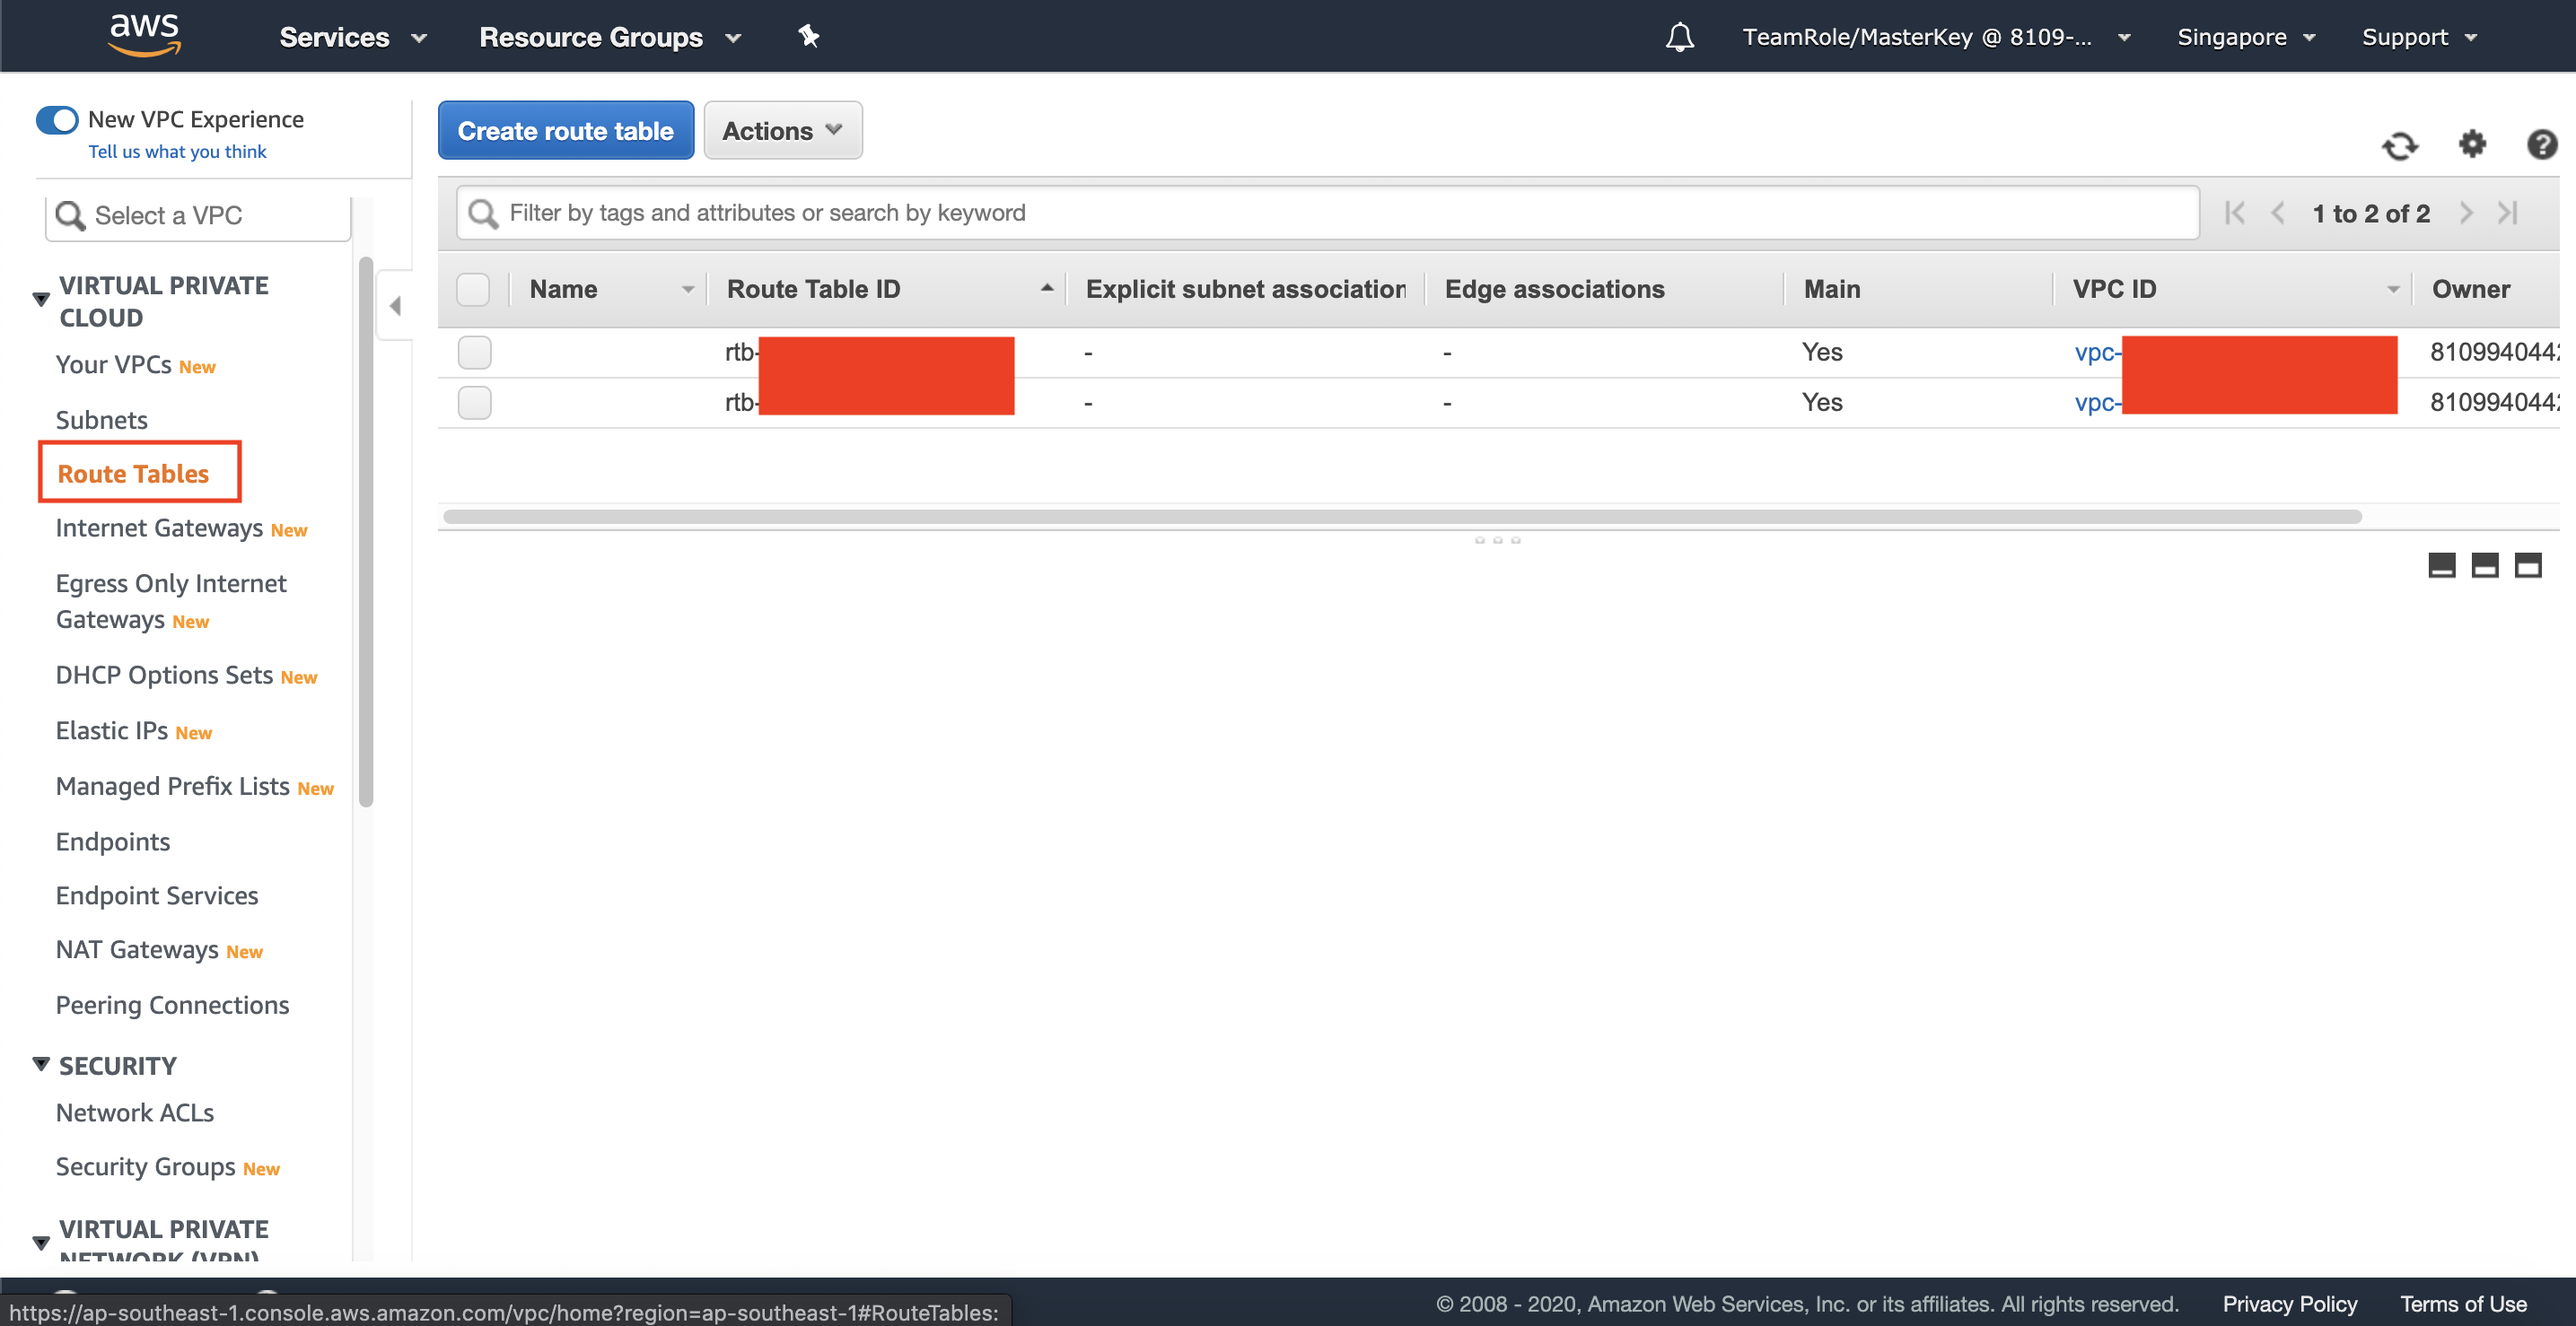
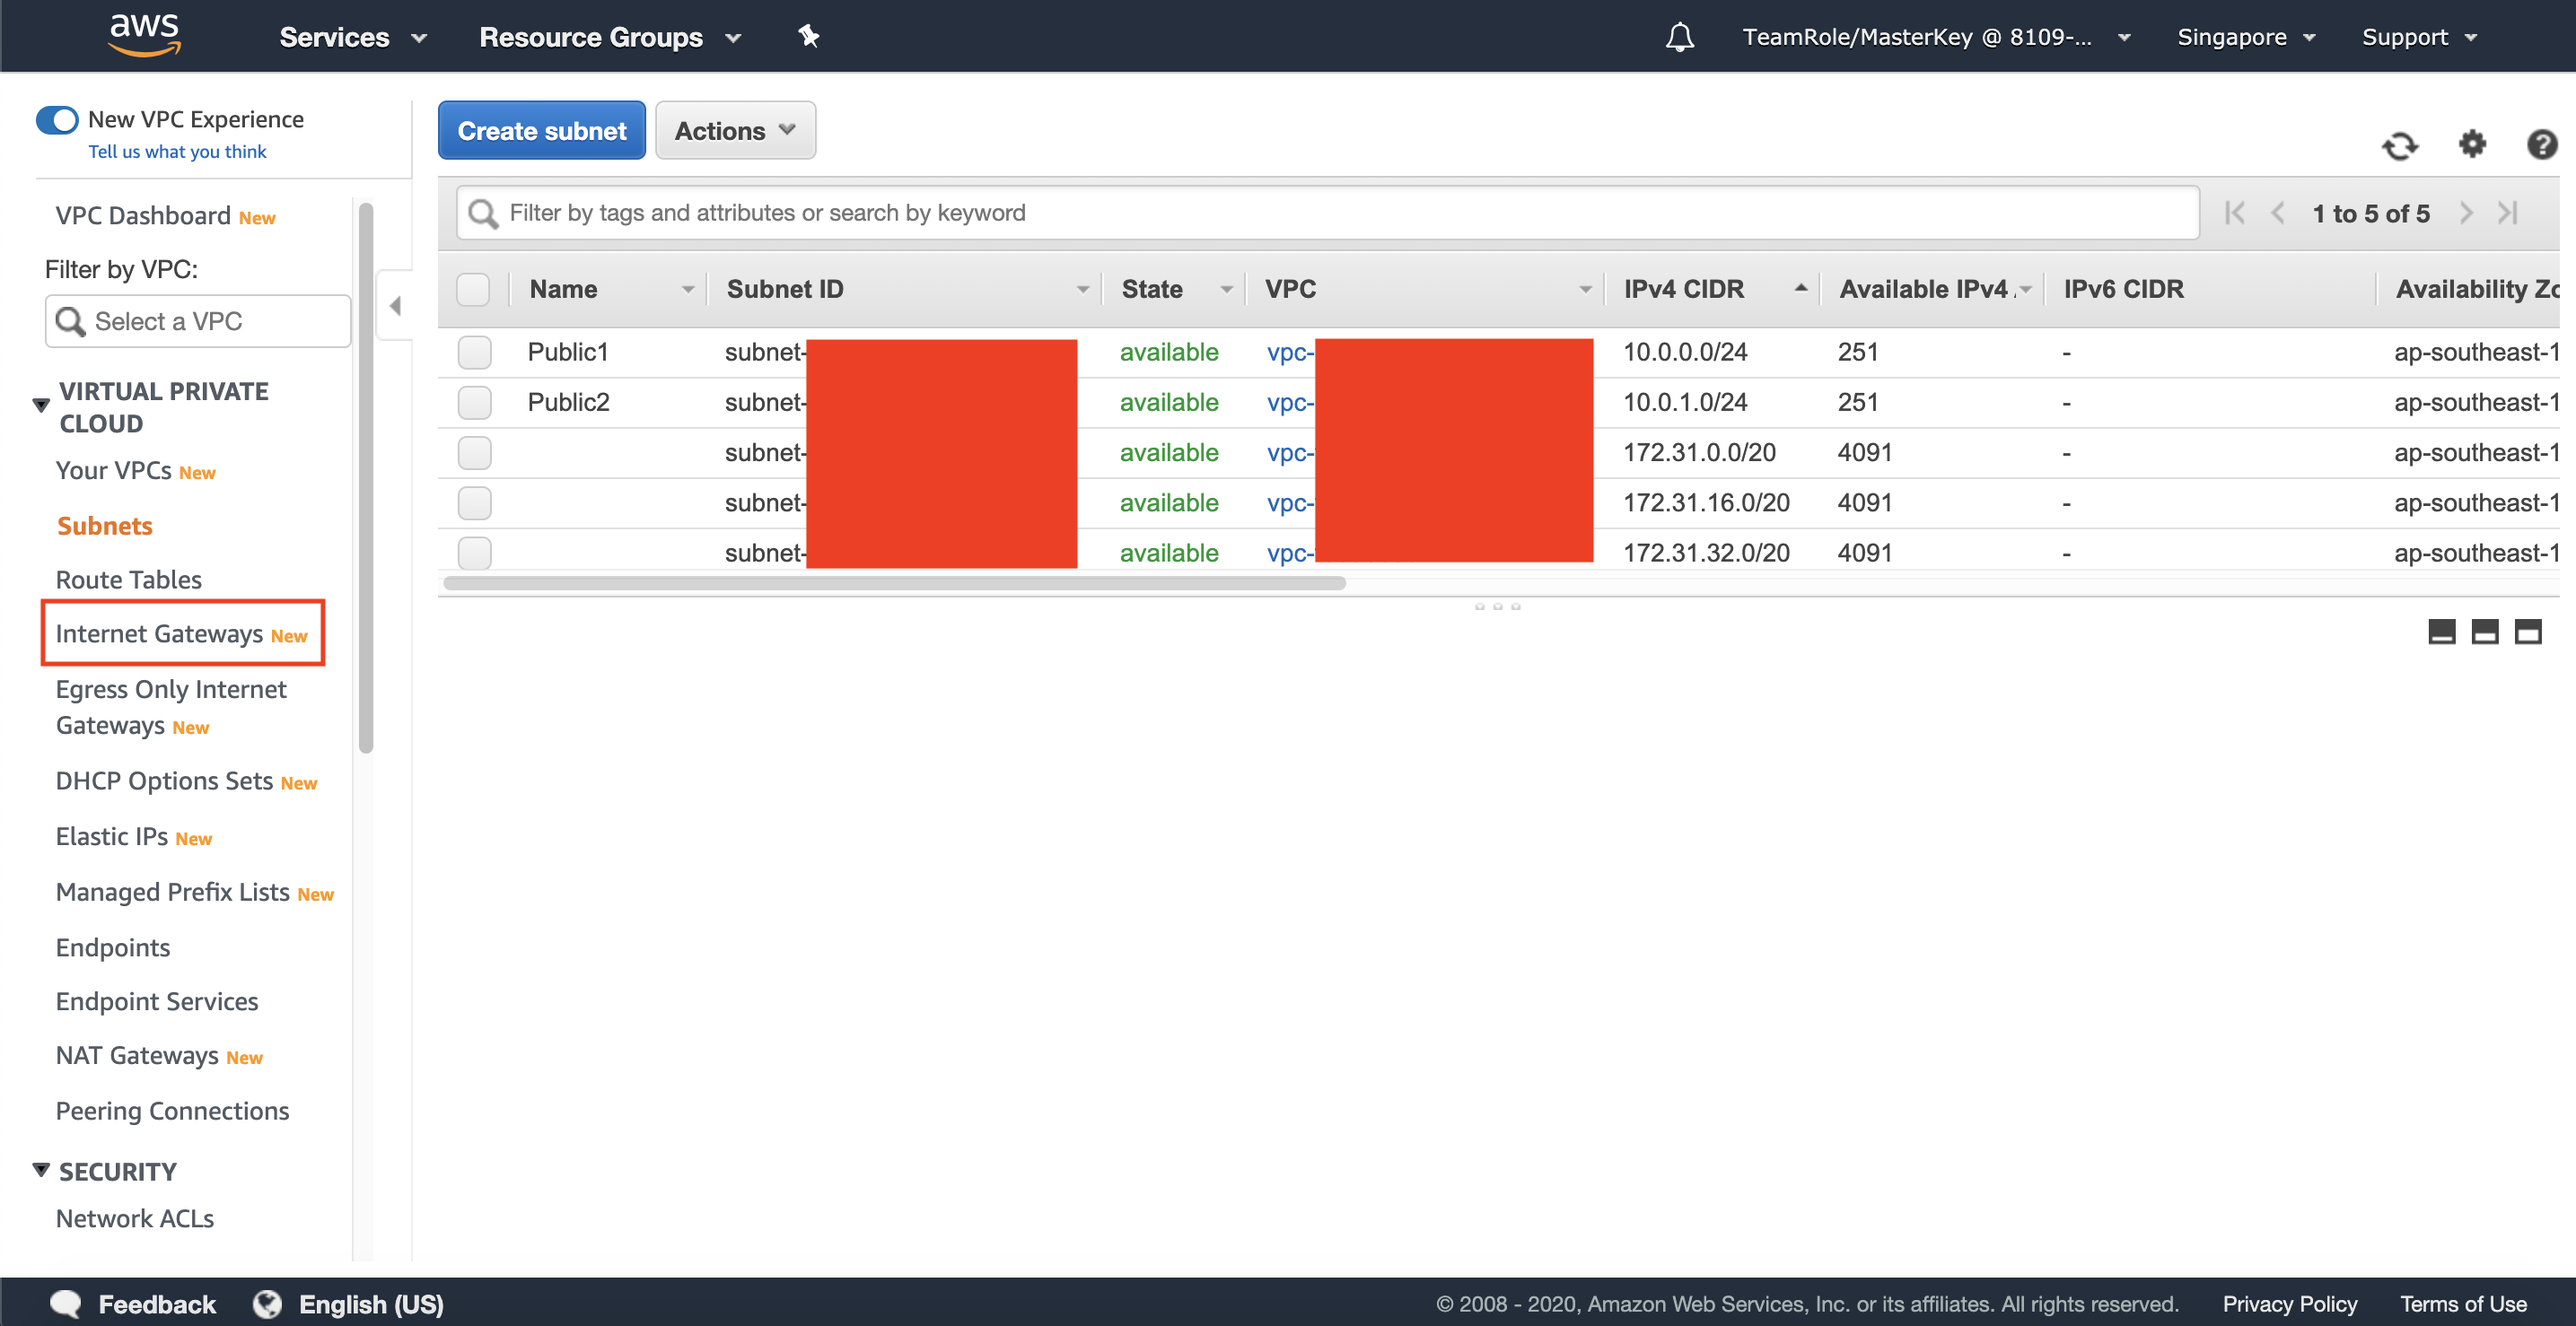
Finalize Setup Networking

diff --git a/docs/Migration/SetupNetworking.md b/docs/Migration/SetupNetworking.md
@@ -30,36 +30,121 @@
     ![](../../images/Migration/SetupNetworking/20.png)
 21. Click `Create`
 22. Click `Close`
-23. Click `Internet Gateways` at the left menu
-    ![](../../images/Migration/SetupNetworking/23.png)
-24. Click `Create internet gateway`
-    ![](../../images/Migration/SetupNetworking/24.png)
-25. Fill the Name tag `DatabaseVPCIGW`
-26. Click `Create internet gateway`
-27. Click `Internet Gateways` at the left menu
-28. Check the checkbox of your internet gatway you have created
-29. Click `Actions` and click `Attach to VPC`
-    ![](../../images/Migration/SetupNetworking/29.png)
-30. Choose the VPC you have previously made (`DatabaseVPC`)
-31. Click `Attach internet gateway`
-32. Click `Your VPCs` at the left menu
-33. Check the checkbox of your VPC you have created
-34. Click `Actions` and click `Edit DNS hostnames`
-    ![](../../images/Migration/SetupNetworking/34.png)
-35. Check DNS hostnames to `Enable`
-36. Click `Save Changes`
-37. Click `Route Tables` on the left menu
+
+Please repeat the step for private subnets
+
+23. Click `Create Subnet`
+24. Fill the Name Tag as `Private1`
+25. Choose the previous VPC that has been created (`DatabaseVPC`)
+26. Choose Availability Zone as `us-east-1c`
+27. Fill 1Pv4 CIDR block as `10.0.2.0/24`
+28. Click `Create`
+29. Click `Close`
+30. Click `Create Subnet`
+31. Fill the Name Tag as `Private2`
+32. Choose the previous VPC that has been created (`DatabaseVPC`)
+33. Choose Availability Zone as `us-east-1d`
+34. Fill 1Pv4 CIDR block as `10.0.3.0/24`
+35. Click `Create`
+36. Click `Close`
+
+Now, we need to create Internet gateway to access the instances at the public subnets to the internet.
+
+37. Click `Internet Gateways` at the left menu
     ![](../../images/Migration/SetupNetworking/37.png)
-38. Choose the Route Table that contains your VPC (`DatabaseVPC`)
+38. Click `Create internet gateway`
     ![](../../images/Migration/SetupNetworking/38.png)
-39. In menu below, click `Routes` and click `Edit routes`
-    ![](../../images/Migration/SetupNetworking/39.png)
-40. Click `Add route`
-41. Fill the destination of `0.0.0.0/0`
-42. on Target, choose `Internet Gateway`
-43. Pick your Internet Gateway (`DatabaseVPCIGW`)
+39. Fill the Name tag `DatabaseVPCIGW`
+40. Click `Create internet gateway`
+41. Click `Internet Gateways` at the left menu
+42. Check the checkbox of your internet gatway you have created
+43. Click `Actions` and click `Attach to VPC`
     ![](../../images/Migration/SetupNetworking/43.png)
-44. Click `Save routes`
-45. Click `Close`
+44. Choose the VPC you have previously made (`DatabaseVPC`)
+45. Click `Attach internet gateway`
+46. Click `Your VPCs` at the left menu
+47. Check the checkbox of your VPC you have created
+48. Click `Actions` and click `Edit DNS hostnames`
+    ![](../../images/Migration/SetupNetworking/48.png)
+49. Check DNS hostnames to `Enable`
+50. Click `Save Changes`
+
+Change the route table for the connection to public internet
+
+51. Click `Route Tables` on the left menu
+    ![](../../images/Migration/SetupNetworking/51.png)
+52. Choose the Route Table that contains your VPC (`DatabaseVPC`)
+    ![](../../images/Migration/SetupNetworking/52.png)
+53. In menu below, click `Routes` and click `Edit routes`
+    ![](../../images/Migration/SetupNetworking/53.png)
+54. Click `Add route`
+55. Fill the destination of `0.0.0.0/0`
+56. on Target, choose `Internet Gateway`
+57. Pick your Internet Gateway (`DatabaseVPCIGW`)
+    ![](../../images/Migration/SetupNetworking/57.png)
+58. Click `Save routes`
+59. Click `Close`
+
+Now, we need to create a connection in a private subnets.
+
+60. click `NAT Gateways` at the left menu.
+61. click `Create NAT gateway`
+    ![](../../images/Migration/SetupNetworking/61.png)
+62. in name, type `DatabaseVPCNATGW`
+63. in subnet, choose subnet `Public1`
+64. click `Allocate Elastic IP`
+    ![](../../images/Migration/SetupNetworking/64.png)
+65. click `Create NAT Gateway`
+
+After that, we need to wait for a moment, since NAT Gateway will be in `Pending` State
+
+Once it's done, it will be in `Available` State.
+    ![](../../images/Migration/SetupNetworking/65.png)
+
+66. click `Route Table` at the left menu
+67. click the left box at the route table you have.
+    ![](../../images/Migration/SetupNetworking/67.png)
+68. hover and click to the pencil logo
+69. type `PublicRTB`
+    ![](../../images/Migration/SetupNetworking/69.png)
+70. click check button.
+
+It will change the name of the public Route table you have.
+
+Now, we need to create a new connection for the Private subnet.
+
+71. click `Create route table`
+72. in name field, click `PrivateRTB`
+73. in VPC, choose your VPC (`DatabaseVPC`)
+74. click `Create`
+    ![](../../images/Migration/SetupNetworking/74.png)
+75. click `Close`
+76. choose `PrivateRTB` checkbox
+77. click `Routes` tab
+78. click `Edit routes`
+    ![](../../images/Migration/SetupNetworking/78.png)
+79. click `Add route`
+80. in destination, type `0.0.0.0/0`
+81. in target, choose `NAT Gateway` and choose your NAT Gateway (`DatabaseVPCNATGW`)
+82. click `Save routes`
+    ![](../../images/Migration/SetupNetworking/82.png)
+83. click `Close`
+
+Now, we need to assign which subnet has a public and which subnet has a private connection.
+
+84. click `PublicRTB` checkbox
+85. click `Subnet Associations`
+86. click `Edit subnet associations`
+    ![](../../images/Migration/SetupNetworking/86.png)
+87. in subnet associations page, choose `Public1` and `Public2`
+88. click `Save`
+    ![](../../images/Migration/SetupNetworking/88.png)
+89. click `PrivateRTB` checkbox
+90. click `Subnet Associations`
+91. click `Edit subnet associations`
+    ![](../../images/Migration/SetupNetworking/91.png)
+92. in subnet associations page, choose `Private1` and `Private2`
+93. click `Save`
+    ![](../../images/Migration/SetupNetworking/93.png)
 
 [BACK TO WORKSHOP GUIDE](../../README.md)

diff --git a/docs/DLAndDWH/DataCatalog.md b/docs/DLAndDWH/DataCatalog.md
@@ -3,81 +3,81 @@
 1. Go to [AWS Console](https://console.aws.amazon.com/console/home?region=us-east-1#)
 2. Type `Glue` and click the Glue menu
     ![](../../images/DLAndDWH/DataCatalog/2.png)
-3. Click "Crawlers" at the left menu
-4. click "Add crawler"
+3. Click `Crawlers` at the left menu
+4. click `Add crawler`
     ![](../../images/DLAndDWH/DataCatalog/4.png)
-5. Fill the name of the crawler with "RDSDataLakeCrawler"
-6. in Specify crawler source type, choose "Data stores"
-7. click "Next"
+5. Fill the name of the crawler with `RDSDataLakeCrawler`
+6. in Specify crawler source type, choose `Data stores`
+7. click `Next`
     ![](../../images/DLAndDWH/DataCatalog/7.png)
 8. in add data store, choose S3 as a data store
 9. in path. click the folder button
     ![](../../images/DLAndDWH/DataCatalog/9.png)
-10. in choosing S3 path, choose "rdsexporttos3"
-11. click "Select"
+10. in choosing S3 path, choose `classicmodels`
+11. click `Select`
     ![](../../images/DLAndDWH/DataCatalog/11.png)
-12. click "Next"
+12. click `Next`
     ![](../../images/DLAndDWH/DataCatalog/12.png)
-13. in add another data store page, choose "No" and click "Next"
-14. in IAM Role, choose "Create an IAM role"
-15. in IAM role textbox, type "RDSSnapshotCrawler"
-16. click "Next"
+13. in add another data store page, choose `No` and click `Next`
+14. in IAM Role, choose `Create an IAM role`
+15. in IAM role textbox, type `RDSSnapshotCrawler`
+16. click `Next`
     ![](../../images/DLAndDWH/DataCatalog/16.png)
-17. in crawler scheduler page, choose "Run on demand" and click "Next"
+17. in crawler scheduler page, choose `Run on demand` and click `Next`
     ![](../../images/DLAndDWH/DataCatalog/17.png)
-18. in database page, click "Add database". it will display the pop up menu
-19. for database name, type "Classicmodels"
-20. click "Create"
+18. in database page, click `Add database`. it will display the pop up menu
+19. for database name, type `classicmodels`
+20. click `Create`
     ![](../../images/DLAndDWH/DataCatalog/20.png)
-21. at the configure crawler output page, click "Next"
-22. in review page, click "Finish"
+21. at the configure crawler output page, click `Next`
+22. in review page, click `Finish`
 
 it will create the crawler to crawl the data from data lake. Now, we need to give the permission to the crawler to access S3 (data lake)
 
 23. go to [IAM Console](https://console.aws.amazon.com/iam/home?region=us-east-1#/home)
-24. click "Roles" at the left menu
-25. in the search bar, type "RDSSnapshotCrawler"
+24. click `Roles` at the left menu
+25. in the search bar, type `RDSSnapshotCrawler`
 26. click the role
     ![](../../images/DLAndDWH/DataCatalog/26.png)
-27. click "Attach policies"
+27. click `Attach policies`
     ![](../../images/DLAndDWH/DataCatalog/27.png)
-28. in search bar, type "S3Full"
+28. in search bar, type `S3Full`
 29. Click the checkbox at the left side of the policy name
-30. click "Attach policy"
+30. click `Attach policy`
     ![](../../images/DLAndDWH/DataCatalog/30.png)
 
 After attaching the Permission for accessing the data lake, now we need to allow the crawler to decrypt the data.
 
 31. go to [KMS Console](https://console.aws.amazon.com/kms/home?region=us-east-1#/kms/home)
-32. click "Customer managed keys"
-33. Click your key ("RDSSnapshotKey")
+32. click `Customer managed keys`
+33. Click your key (`RDSSnapshotKey`)
     ![](../../images/DLAndDWH/DataCatalog/33.png)
-34. In key users, click "Add"
+34. In key users, click `Add`
     ![](../../images/DLAndDWH/DataCatalog/34.png)
-35. In search bar, type "RDSSnapshotCrawler"
+35. In search bar, type `RDSSnapshotCrawler`
 36. click the checkbox at the left side of your role
-37. click "Add"
+37. click `Add`
     ![](../../images/DLAndDWH/DataCatalog/37.png)
 
 Now, we can run the crawler we have created previously.
 
 38. go to [Glue Console](https://console.aws.amazon.com/glue/home?region=us-east-1)
-39. click "Crawler" at the left side of the menu.
-40. click the checbox at the left side of your crawler ("RDSDataLakeCrawler")
-41. click "Run crawler"
+39. click `Crawler` at the left side of the menu.
+40. click the checbox at the left side of your crawler (`RDSDataLakeCrawler`)
+41. click `Run crawler`
     ![](../../images/DLAndDWH/DataCatalog/41.png)
 
 it will take a few minutes to run the crawler. it will create a data catalog from your data lake to be accessed anywhere else.
 
-once the crawler is done, it will display the "Ready" status and create 10 tables.
+once the crawler is done, it will display the `Ready` status and create 844 tables.
     ![](../../images/DLAndDWH/DataCatalog/41-2.png)
 
 We need to check the data.
 
-42. Click "Databases" at the left menu
-43. click your database ("classicmodels")
+42. Click `Databases` at the left menu
+43. click your database (`classicmodels`)
     ![](../../images/DLAndDWH/DataCatalog/43.png)
-44. click "Tables in classicmodels"
+44. click `Tables in classicmodels`
 
 it will display all tables that has been crawled.
     ![](../../images/DLAndDWH/DataCatalog/44.png)

diff --git a/docs/DLAndDWH/IntegrateRDStoDataLake.md b/docs/DLAndDWH/IntegrateRDStoDataLake.md
@@ -51,7 +51,7 @@ it will display the export page
 
 28. In export identifier, type `rdsexporttos3`
     ![](../../images/DLAndDWH/IntegrateRDStoDataLake/28.png)
-29. In S3 destination, choose your bucket (`yourname-demo-datalake-bucket)
+29. In S3 destination, choose your bucket (`yourname-demo-datalake-bucket`)
 30. In S3 Prefix, type `RDSSnapshot/`
     ![](../../images/DLAndDWH/IntegrateRDStoDataLake/30.png)
 31. in IAM role, choose `Create a new role`
@@ -86,11 +86,11 @@ Once we have give the permission to access our data lake, we need to go back to 
 Like the previous step number 28 until 34, we need to do it again. but, we need to change a little bit about the authorization part.
 
 45. In export identifier, type `rdsexporttos3`
-46. In S3 destination, choose your bucket (`yourname-demo-datalake-bucket)
+46. In S3 destination, choose your bucket (`yourname-demo-datalake-bucket`)
 47. In S3 Prefix, type `RDSSnapshot/`
 48. in IAM role, search `RDSExportToS3Role` and click the role.
     ![](../../images/DLAndDWH/IntegrateRDStoDataLake/48.png)
-49. in Encryption, choose the key you have created (`RDSSnapshotKey)
+49. in Encryption, choose the key you have created (`RDSSnapshotKey`)
 50. Click `Export to Amazon S3`
 
 it will start to export the snapshot from your RDS Database to Data lake (S3)

diff --git a/docs/Migration/MigrateDB.md b/docs/Migration/MigrateDB.md
@@ -104,8 +104,8 @@ Once it's complete, the status will change into `Load complete, replication ongo
 We need to check the database if it's now available on RDS.
 
 53. go to [RDS Console](https://console.aws.amazon.com/rds/home?region=us-east-1)
-54. click "Databases" on the left menu
-55. click your database name ("RDSMySQL")
+54. click `Databases` on the left menu
+55. click your database name (`RDSMySQL`)
     ![](../../images/Migration/MigrateDB/55.png)
 56. copy the endpoint of your database.
 57. Open your terminal
@@ -120,7 +120,7 @@ Now, we need to confirm if the data is keep being migrated continuously.
 
 61. Open new terminal and leave your RDS terminal. Don't close it.
 62. go to your [EC2 console here](https://console.aws.amazon.com/ec2/v2/home?region=us-east-1#)
-63. click "Instances" at the left menu
+63. click `Instances` at the left menu
 64. find your instance (EC2MySQL) and copy the Public IPv4 DNS
     ![](../../images/Migration/MigrateDB/64.png)
 65. in your new terminal, type 'mysql -h `your public IPv4 DNS` -P 3306 -u testuser -p'
